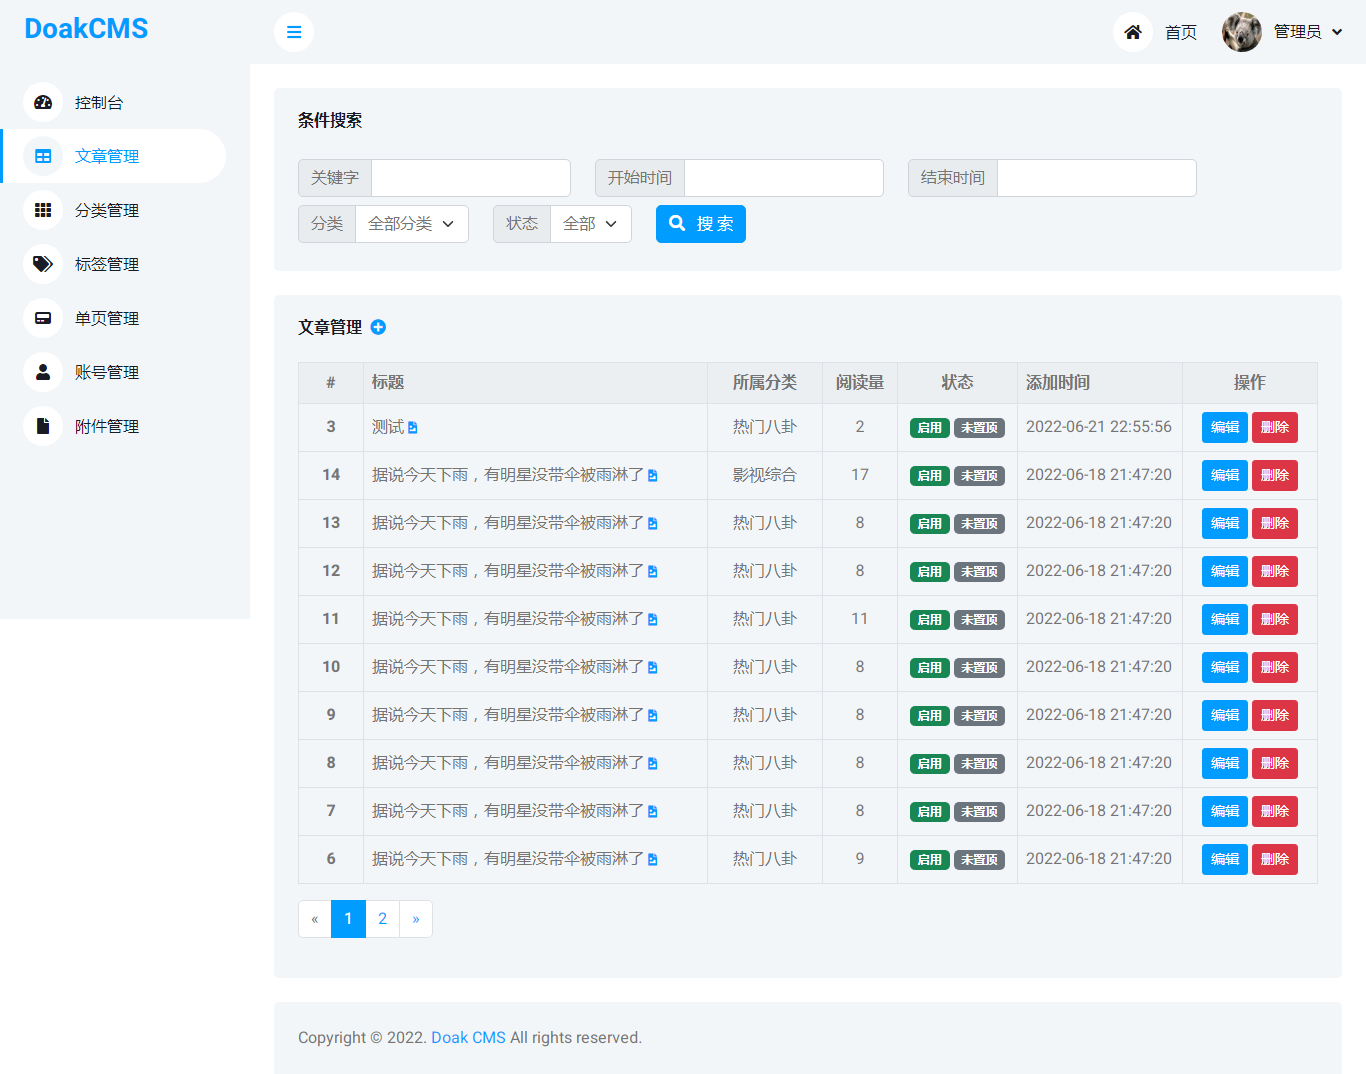
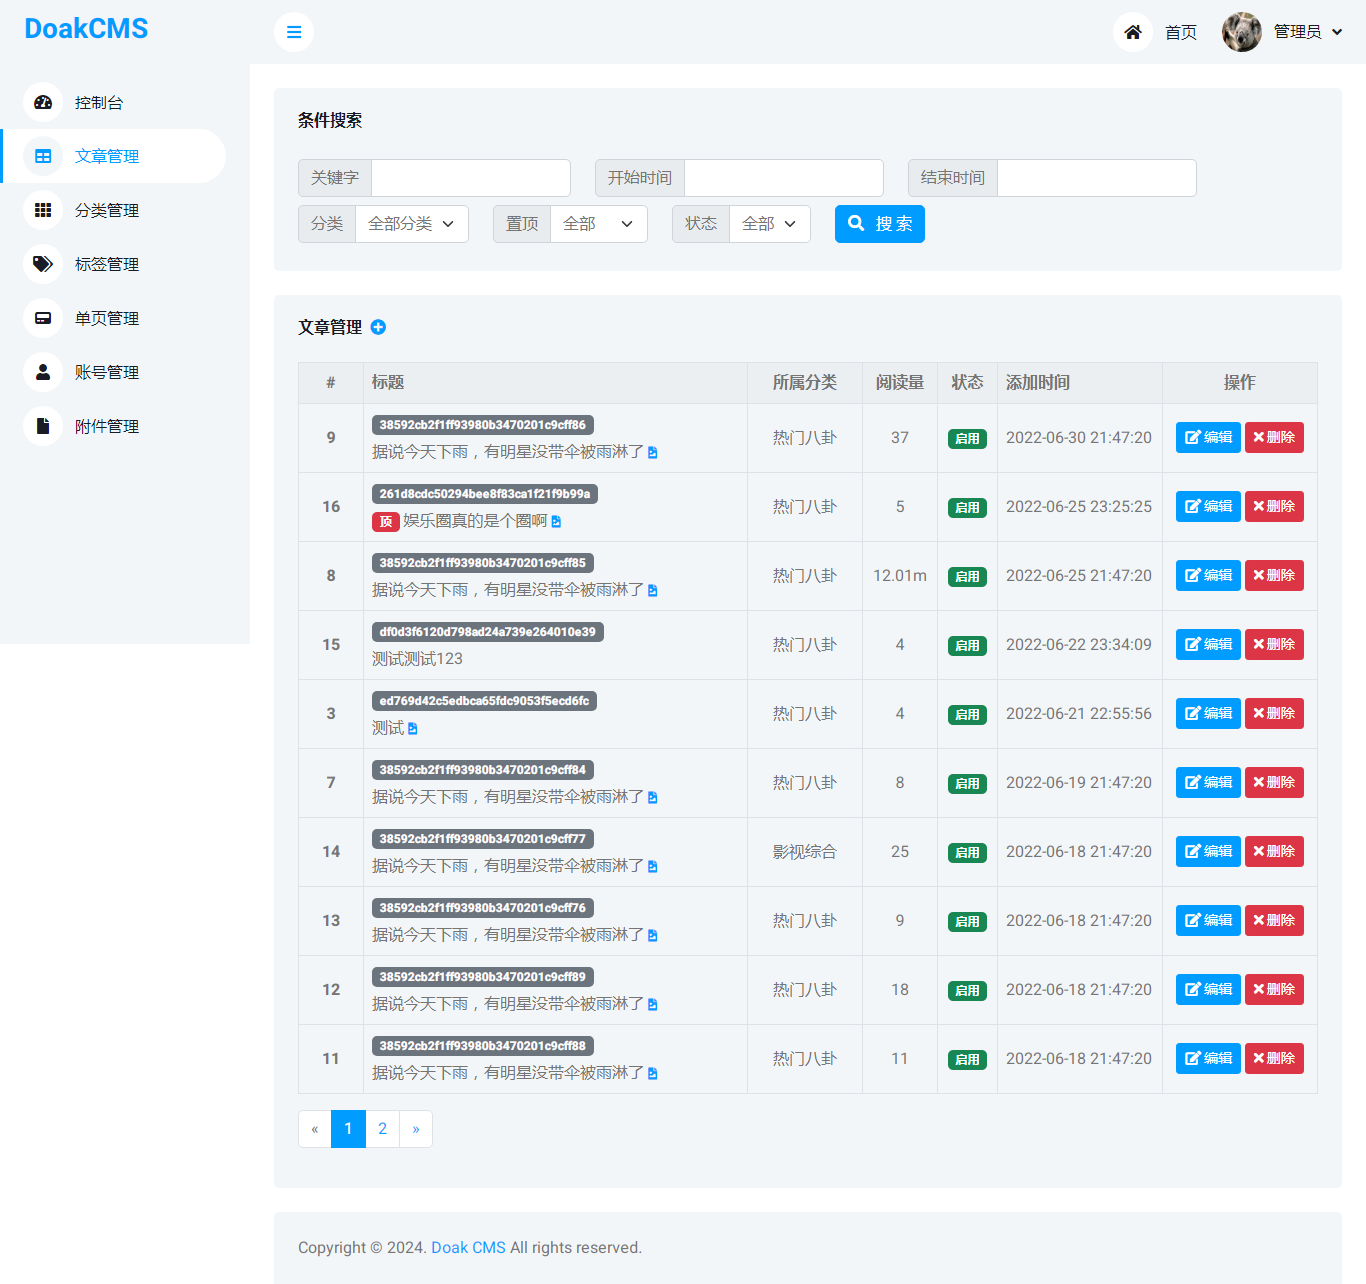
优化

diff --git a/resources/static/admin/css/style.css b/resources/static/admin/css/style.css
@@ -1,1 +1,144 @@
 :root{--primary: #009CFF;--light: #F3F6F9;--dark: #191C24}.back-to-top{position:fixed;display:none;right:45px;bottom:45px;z-index:99}#spinner{opacity:0;visibility:hidden;transition:opacity .5s ease-out,visibility 0s linear .5s;z-index:99999}#spinner.show{transition:opacity .5s ease-out,visibility 0s linear 0s;visibility:visible;opacity:1}.btn{transition:.5s}.btn.btn-primary{color:#fff}.btn-square{width:38px;height:38px}.btn-sm-square{width:32px;height:32px}.btn-lg-square{width:48px;height:48px}.btn-square,.btn-sm-square,.btn-lg-square{padding:0;display:inline-flex;align-items:center;justify-content:center;font-weight:400;border-radius:50px}.sidebar{position:fixed;top:0;left:0;bottom:0;width:250px;height:100vh;overflow-y:auto;background:var(--light);transition:.5s;z-index:999}.content{margin-left:250px;min-height:100vh;background:#fff;transition:.5s}@media(min-width:992px){.sidebar{margin-left:0}.sidebar.open{margin-left:-250px}.content{width:calc(100% - 250px)}.content.open{width:100%;margin-left:0}}@media(max-width:991.98px){.sidebar{margin-left:-250px}.sidebar.open{margin-left:0}.content{width:100%;margin-left:0}}.sidebar .navbar .navbar-nav .nav-link{padding:7px 20px;color:var(--dark);font-weight:500;border-left:3px solid var(--light);border-radius:0 30px 30px 0;outline:none}.sidebar .navbar .navbar-nav .nav-link:hover,.sidebar .navbar .navbar-nav .nav-link.active{color:var(--primary);background:#fff;border-color:var(--primary)}.sidebar .navbar .navbar-nav .nav-link i{width:40px;height:40px;display:inline-flex;align-items:center;justify-content:center;background:#fff;border-radius:40px}.sidebar .navbar .navbar-nav .nav-link:hover i,.sidebar .navbar .navbar-nav .nav-link.active i{background:var(--light)}.sidebar .navbar .dropdown-toggle::after{position:absolute;top:15px;right:15px;border:none;content:"\f107";font-family:"font awesome 5 free";font-weight:900;transition:.5s}.sidebar .navbar .dropdown-toggle[aria-expanded=true]::after{transform:rotate(-180deg)}.sidebar .navbar .dropdown-item{padding-left:25px;border-radius:0 30px 30px 0}.content .navbar .navbar-nav .nav-link{margin-left:25px;padding:12px 0;color:var(--dark);outline:none}.content .navbar .navbar-nav .nav-link:hover,.content .navbar .navbar-nav .nav-link.active{color:var(--primary)}.content .navbar .sidebar-toggler,.content .navbar .navbar-nav .nav-link i{width:40px;height:40px;display:inline-flex;align-items:center;justify-content:center;background:#fff;border-radius:40px}.content .navbar .dropdown-toggle::after{margin-left:6px;vertical-align:middle;border:none;content:"\f107";font-family:"font awesome 5 free";font-weight:900;transition:.5s}.content .navbar .dropdown-toggle[aria-expanded=true]::after{transform:rotate(-180deg)}@media(max-width:575.98px){.content .navbar .navbar-nav .nav-link{margin-left:15px}}.bootstrap-datetimepicker-widget.bottom{top:auto!important}.bootstrap-datetimepicker-widget .table *{border-bottom-width:0}.bootstrap-datetimepicker-widget .table th{font-weight:500}.bootstrap-datetimepicker-widget.dropdown-menu{padding:10px;border-radius:2px}.bootstrap-datetimepicker-widget table td.active,.bootstrap-datetimepicker-widget table td.active:hover{background:var(--primary)}.bootstrap-datetimepicker-widget table td.today::before{border-bottom-color:var(--primary)}.progress .progress-bar{width:0;transition:2s}.testimonial-carousel .owl-dots{margin-top:24px;display:flex;align-items:flex-end;justify-content:center}.testimonial-carousel .owl-dot{position:relative;display:inline-block;margin:0 5px;width:15px;height:15px;border:5px solid var(--primary);border-radius:15px;transition:.5s}.testimonial-carousel .owl-dot.active{background:var(--dark);border-color:var(--primary)}
+
+.pull-right {
+  float: right;
+}
+
+.pull-left {
+  float: left;
+}
+
+.icon.pull-left {
+  margin-right: .3em;
+}
+
+.icon.pull-right {
+  margin-left: .3em;
+}
+
+.icon-spin {
+  -webkit-animation: fa-spin 2s infinite linear;
+  -o-animation: fa-spin 2s infinite linear;
+  animation: fa-spin 2s infinite linear;
+}
+
+.icon-pulse {
+  -webkit-animation: fa-spin 1s infinite steps(8);
+  -o-animation: fa-spin 1s infinite steps(8);
+  animation: fa-spin 1s infinite steps(8);
+}
+
+@-webkit-keyframes fa-spin {
+  0% {
+    -webkit-transform: rotate(0deg);
+    transform: rotate(0deg);
+  }
+  100% {
+    -webkit-transform: rotate(359deg);
+    transform: rotate(359deg);
+  }
+}
+
+@-o-keyframes fa-spin {
+  0% {
+    -webkit-transform: rotate(0deg);
+    -o-transform: rotate(0deg);
+    transform: rotate(0deg);
+  }
+  100% {
+    -webkit-transform: rotate(359deg);
+    -o-transform: rotate(359deg);
+    transform: rotate(359deg);
+  }
+}
+
+@keyframes fa-spin {
+  0% {
+    -webkit-transform: rotate(0deg);
+    -o-transform: rotate(0deg);
+    transform: rotate(0deg);
+  }
+  100% {
+    -webkit-transform: rotate(359deg);
+    -o-transform: rotate(359deg);
+    transform: rotate(359deg);
+  }
+}
+
+.icon-rotate-90 {
+  -ms-filter: "progid:DXImageTransform.Microsoft.BasicImage(rotation=1)";
+  -webkit-transform: rotate(90deg);
+  -ms-transform: rotate(90deg);
+  -o-transform: rotate(90deg);
+  transform: rotate(90deg);
+}
+
+.icon-rotate-180 {
+  -ms-filter: "progid:DXImageTransform.Microsoft.BasicImage(rotation=2)";
+  -webkit-transform: rotate(180deg);
+  -ms-transform: rotate(180deg);
+  -o-transform: rotate(180deg);
+  transform: rotate(180deg);
+}
+
+.icon-rotate-270 {
+  -ms-filter: "progid:DXImageTransform.Microsoft.BasicImage(rotation=3)";
+  -webkit-transform: rotate(270deg);
+  -ms-transform: rotate(270deg);
+  -o-transform: rotate(270deg);
+  transform: rotate(270deg);
+}
+
+.icon-flip-horizontal {
+  -ms-filter: "progid:DXImageTransform.Microsoft.BasicImage(rotation=0, mirror=1)";
+  -webkit-transform: scale(-1, 1);
+  -ms-transform: scale(-1, 1);
+  -o-transform: scale(-1, 1);
+  transform: scale(-1, 1);
+}
+
+.icon-flip-vertical {
+  -ms-filter: "progid:DXImageTransform.Microsoft.BasicImage(rotation=2, mirror=1)";
+  -webkit-transform: scale(1, -1);
+  -ms-transform: scale(1, -1);
+  -o-transform: scale(1, -1);
+  transform: scale(1, -1);
+}
+
+:root .icon-rotate-90,
+:root .icon-rotate-180,
+:root .icon-rotate-270,
+:root .icon-flip-horizontal,
+:root .icon-flip-vertical {
+  -webkit-filter: none;
+  filter: none;
+}
+
+.icon-stack {
+  position: relative;
+  display: inline-block;
+  width: 2em;
+  height: 2em;
+  line-height: 2em;
+  vertical-align: middle;
+}
+
+.icon-stack-1x,
+.icon-stack-2x {
+  position: absolute;
+  left: 0;
+  width: 100%;
+  text-align: center;
+}
+
+.icon-stack-1x {
+  line-height: inherit;
+}
+
+.icon-stack-2x {
+  font-size: 2em;
+}
+
+.icon-inverse {
+  color: #ffffff;
+}

diff --git a/resources/views/admin/setting/index.jet.html b/resources/views/admin/setting/index.jet.html
@@ -20,10 +20,10 @@
                     <div class="mb-3">
                         <label 
                             for="inputWebsiteName" 
-                            class="form-label"
+                            class="form-label d-block"
                         >
                             网站名称 
-                            <span class="text-success">
+                            <span class="text-success pull-right">
                                 [website_name]
                             </span>
                         </label>
@@ -40,10 +40,10 @@
                     
                     <div class="mb-3">
                         <label for="inputWebsiteKeywords" 
-                            class="form-label"
+                            class="form-label d-block"
                         >
                             网站关键字
-                            <span class="text-success">
+                            <span class="text-success pull-right">
                                 [website_keywords]
                             </span>
                         </label>
@@ -60,10 +60,10 @@
                     
                     <div class="mb-3">
                         <label for="websiteDescriptionTextarea" 
-                            class="form-label"
+                            class="form-label d-block"
                         >
                             网站描述
-                            <span class="text-success">
+                            <span class="text-success pull-right">
                                 [website_description]
                             </span>
                         </label>
@@ -80,10 +80,10 @@
                     
                     <div class="mb-3">
                         <label for="inputWebsiteCopyright" 
-                            class="form-label"
+                            class="form-label d-block"
                         >
                             版权
-                            <span class="text-success">
+                            <span class="text-success pull-right">
                                 [website_copyright]
                             </span>
                         </label>
@@ -100,10 +100,10 @@
                     
                     <div class="mb-3">
                         <label for="inputWebsiteBeian" 
-                            class="form-label"
+                            class="form-label d-block"
                         >
                             网站备案
-                            <span class="text-success">
+                            <span class="text-success pull-right">
                                 [website_beian]
                             </span>
                         </label>
@@ -119,9 +119,9 @@
                     </div>
                     
                     <div class="mb-3">
-                        <label class="form-label">
+                        <label class="form-label d-block">
                             网站状态
-                            <span class="text-success">
+                            <span class="text-success pull-right">
                                 [website_status]
                             </span>
                         </label>

diff --git a/resources/views/admin/art/index.jet.html b/resources/views/admin/art/index.jet.html
@@ -169,6 +169,10 @@
                                         </div>
 
                                         <div class="art-item mt-1">
+                                            {{if value.IsTop == 1 }}
+                                                <span class="badge bg-danger" title="置顶">顶</span>
+                                              {{end}}
+                                            
                                             {{ value.Title }}
                                             
                                             {{if value.Cover != ""}}
@@ -186,19 +190,15 @@
                                         {{end}}
                                     </td>
                                     <td width="75" class="text-center">
-                                        {{ value.Views }}
+                                        <span title="阅读量: {{ value.Views }}">
+                                            {{ formatViews(value.Views) }}
+                                        </span>
                                     </td>
-                                    <td width="120" class="text-center">
+                                    <td width="60" class="text-center">
                                         {{if value.Status == 1 }}
                                             <span class="badge bg-success">启用</span>
                                         {{else}}
                                             <span class="badge bg-danger">禁用</span>
-                                        {{end}}
-                                        
-                                        {{if value.IsTop == 1 }}
-                                            <span class="badge bg-primary">已置顶</span>
-                                        {{else}}
-                                            <span class="badge bg-secondary">未置顶</span>
                                         {{end}}
                                     </td>
                                     <td width="165">

diff --git a/pkg/utils/utils.go b/pkg/utils/utils.go
@@ -51,6 +51,24 @@ func FormatSize(size int64) string {
     return fmt.Sprintf("%.2f%s", s, units[i])
 }
 
+// 格式化浏览量大小
+func FormatViews(size int64) string {
+    units := []string{"", "k", "m", "km", "wm"}
+
+    s := float64(size)
+
+    i := 0
+    for ; s >= 1000 && i < 4; i++ {
+        s /= 1000
+    }
+
+    if size < 1000 {
+        return fmt.Sprintf("%.0f", s)
+    }
+
+    return fmt.Sprintf("%.2f%s", s, units[i])
+}
+
 // 文件是否存在
 func FileExists(path string) bool {
     _, err := os.Stat(path)

diff --git a/app/view/view_func.go b/app/view/view_func.go
@@ -17,6 +17,7 @@ func SetViewFuncs(engine *jet.Engine) {
     engine.AddFunc("formatTime", time.CreateFromFormat)
     engine.AddFunc("nowTime", time.Now)
     engine.AddFunc("formatSize", utils.FormatSize)
+    engine.AddFunc("formatViews", utils.FormatViews)
 
     engine.AddFunc("adminUrl", url.AdminUrl)
     engine.AddFunc("avatarUrl", url.AvatarUrl)

diff --git a/README.md b/README.md
@@ -37,7 +37,7 @@ doak-cms 是使用 gofiber 和 Xorm 的 go 文章管理系统
     <tr>
         <td width="50%">
             <center>
-                <img alt="文章管理" src="https://user-images.githubusercontent.com/24578855/174941958-b7127708-7c8c-4dac-98d8-efc4db0a5c8a.png" />
+                <img alt="文章管理" src="https://github.com/deatil/doak-cms/assets/24578855/26b576e1-d446-4d4b-9b8d-56ae219b1213" />
             </center>
         </td>
         <td width="50%">
@@ -89,9 +89,9 @@ go run main.go
 
  - xorm.io/xorm
 
- - github.com/smallnest/rpcx
-
  - github.com/spf13/cast
+
+ - github.com/smallnest/rpcx
 
 
 ### 开源协议
